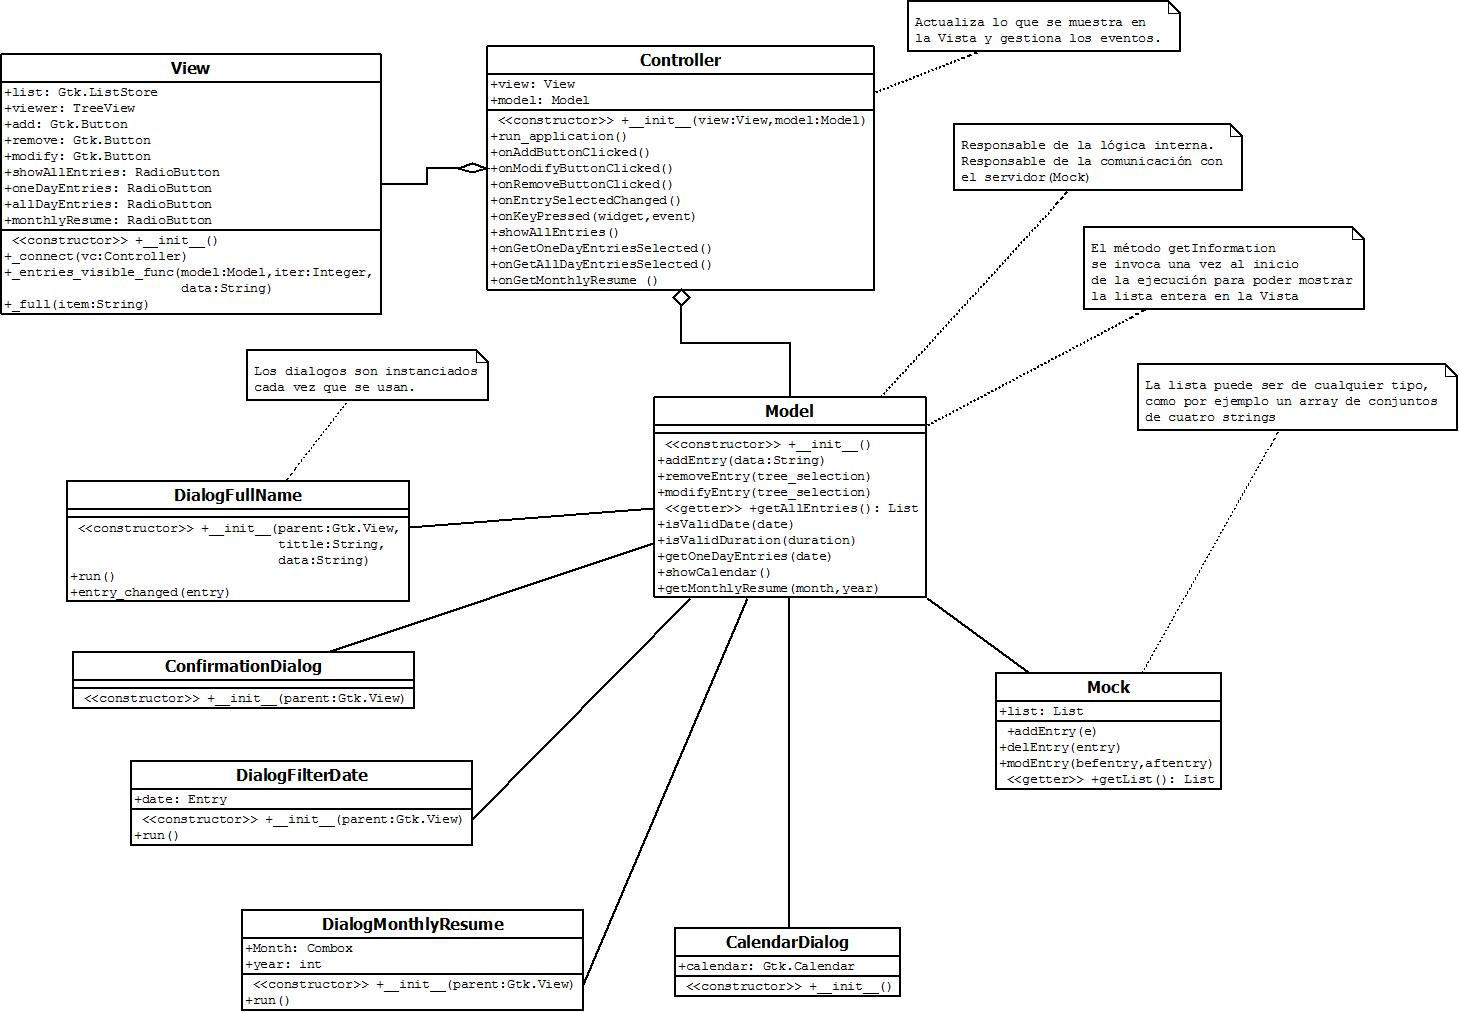
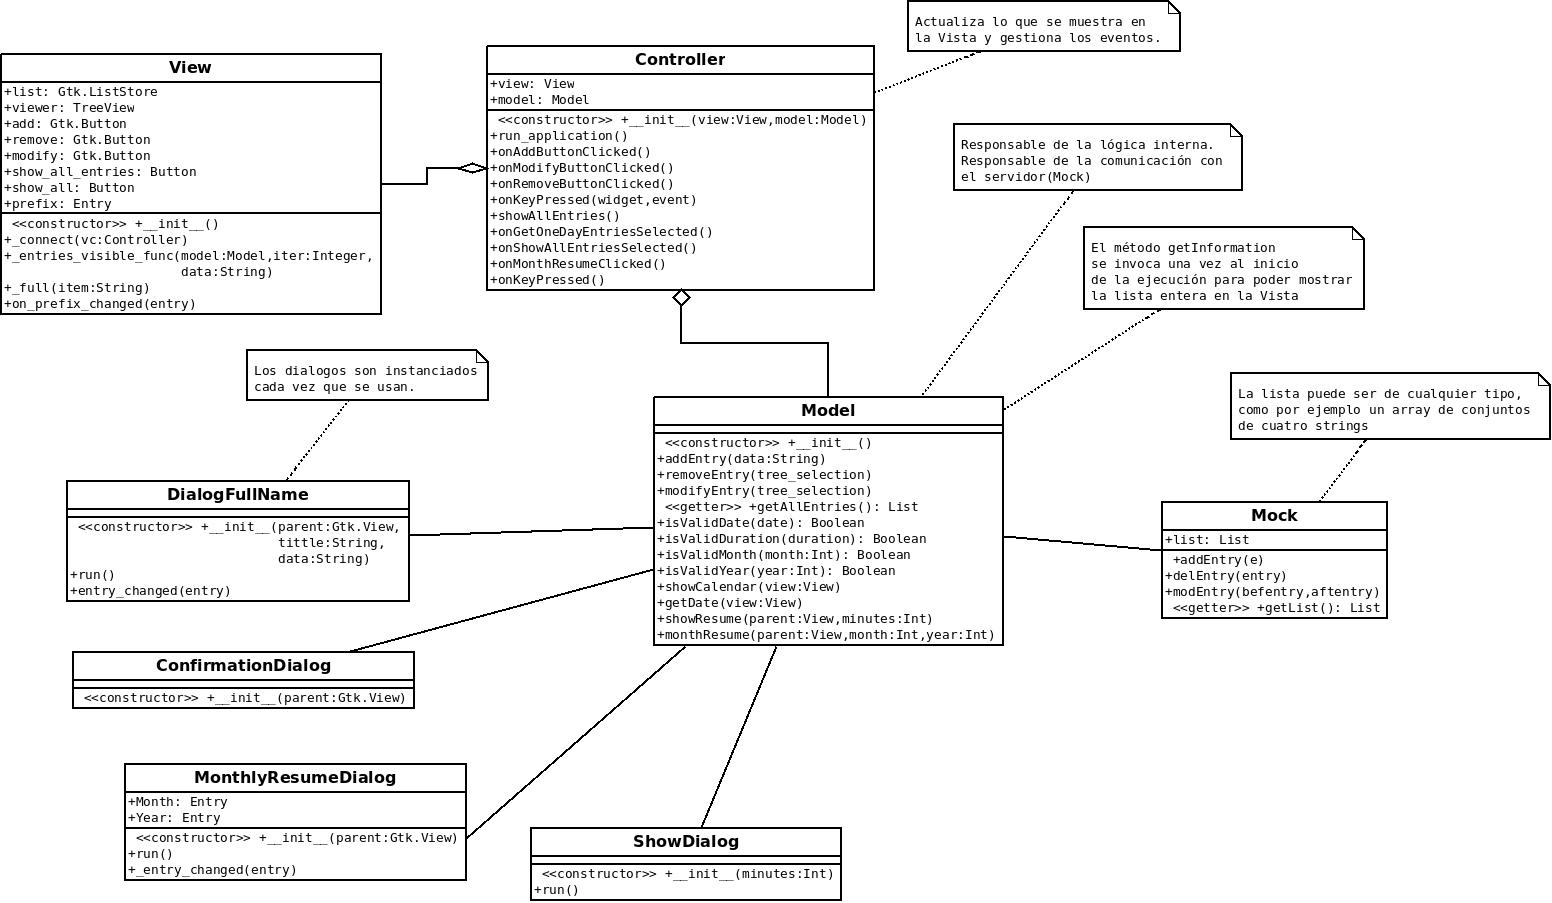
Retoques varios de diseño

diff --git a/src/View.py b/src/View.py
@@ -11,12 +11,10 @@ class View(Gtk.Window):
 		self.prefix = prefix
 		lbl_prefix = Gtk.Label(label="_Filtrar:", use_underline=True, mnemonic_widget=self.prefix)
 		prefix.get_accessible().add_relationship(Atk.RelationType.LABELLED_BY, lbl_prefix.get_accessible())
-
 		Gtk.Window.__init__(self,title="Fitness App")
 		self.set_default_size(680,680)
 		self.set_position(Gtk.WindowPosition.CENTER_ALWAYS)
 		self.set_icon_from_file('img/app_icon.ico')
-
 		self.viewer = Gtk.ListStore(str, str, int, str)
 		grid = Gtk.Grid(margin=18)
 		self.add(grid)
@@ -28,7 +26,6 @@ class View(Gtk.Window):
 		filter.set_visible_func(self._entries_visible_func)
 		self.filter = filter
 		self.filter_prefix = ""
-
 		self.entries = Gtk.TreeView(filter, headers_visible=True)
 
 		renderer0 = Gtk.CellRendererText()
@@ -50,14 +47,8 @@ class View(Gtk.Window):
 		self.entries.append_column(column3)
 
 		scrolled_window = Gtk.ScrolledWindow(expand=True)
-		#scrolled_window.set_size_request(200, 500)
 		scrolled_window.add(self.entries)
 
-		#En la siguiente version de la vista se implementa el filtrado
-
-		'''boxFilter = Gtk.Box(orientation=Gtk.Orientation.HORIZONTAL, spacing=10, margin=0)
-		boxFilter.pack_start(lbl_prefix, False, False, 0)
-		boxFilter.pack_start(self.prefix, False, False, 0)'''
 		bottomBox = Gtk.Box(orientation=Gtk.Orientation.HORIZONTAL, spacing=18, margin_top=18)
 		boxButtons = Gtk.Box(orientation=Gtk.Orientation.HORIZONTAL, spacing=6)
 		filterButtons = Gtk.Box(orientation=Gtk.Orientation.HORIZONTAL, spacing=6,margin_right=0) 
@@ -65,23 +56,8 @@ class View(Gtk.Window):
 		bottomBox.pack_start(boxButtons,False,False,0)
 		bottomBox.pack_start(filterButtons,False,False,0)
 
-		''' Agregar el resto de botones en la version extendida'''
-		#label_filter = Gtk.Label('Filter:')
 		self.show_all_entries = Gtk.Button("Show all")
 		self.month_resume  = Gtk.Button("Month resume")
-		#self.show_all_entries.set_active(True)
-		#self.show_calendar = Gtk.ToolButton()	
-		#self.show_calendar.set_icon_name("x-office-calendar")
-		#self.show_calendar = Gtk.Button('Show Calendar')
-		
-
-		''' Botones con iconos, a considerar
-		self.add = Gtk.ToolButton()
-		self.add.set_icon_name("list-add")
-		self.modify = Gtk.ToolButton()
-		self.modify.set_icon_name("accessories-text-editor")
-		self.remove = Gtk.ToolButton()
-		self.remove.set_icon_name("list-remove") '''
 		self.prefix.set_placeholder_text("DD/MM/YYYY")
 		boxButtons.pack_start(self.add, False, False, 0)
 		boxButtons.pack_start(self.modify, False, False, 0)
@@ -90,20 +66,10 @@ class View(Gtk.Window):
 		boxButtons.pack_start(self.show_all_entries,False,False,0)
 		boxButtons.pack_start(Gtk.Label("Filter by day: "), False, False, 0)
 		boxButtons.pack_start(self.prefix, False, False, 0)
-		#boxButtons.pack_start(self.show_calendar,False,False,0)
 
-		#filterBox = Gtk.Box(orientation=Gtk.Orientation.HORIZONTAL,spacing=12,margin=18)
-		#filterButtons.pack_start(label_filter,False,False,0)
-
-		#filterButtons.pack_start(self.show_all_entries,False,False,0)
-		#grid.attach(boxFilter, 0, 0, 1, 1)
 		grid.attach(scrolled_window, 0, 1, 1, 1)
 		grid.attach(bottomBox, 0, 2, 3, 1)
-
 		self.prefix.connect('changed', self.on_prefix_changed)
-		#self.add.set_sensitive(True)
-		#self.modify.set_sensitive(False)
-		#self.remove.set_sensitive(False)		
 
 	def _connect(self, vc):
 		self.connect("destroy",Gtk.main_quit)
@@ -114,7 +80,6 @@ class View(Gtk.Window):
 		#self.show_calendar.connect('clicked',vc.onShowCalendarClicked)
 		self.month_resume.connect('clicked',vc.onMonthResumeClicked)
 		self.show_all_entries.connect('clicked',vc.onShowAllEntriesSelected)
-		#self.entries.get_selection().connect("changed", vc.onEntrySelectedChanged)
 
 	def _entries_visible_func(self, model, iter, data):
 		if (self.filter_prefix == ""):

diff --git a/src/Controller.py b/src/Controller.py
@@ -36,8 +36,7 @@ class Controller:
 		if len(self.view.viewer) > 0:
 			selection = self.view.entries.get_selection()
 			self.model.removeEntry(self.view,selection)
-	def onEntrySelectedChanged(self, selection):
-		print("Cambiado")
+			
 	def onShowCalendarClicked(self,w):
 		self.model.showCalendar(self.view)
 		print("show calendar clicked")
@@ -51,7 +50,7 @@ class Controller:
 		if entry is None:
 			return
 		(month,year) = entry
-		self.model.MonthResume(self.view, month, year)
+		self.model.monthResume(self.view, month, year)
 		
 	def onShowAllEntriesSelected(self,w):
 		'''Borra todo y muestra todo lo que está en el modelo. 
@@ -62,10 +61,7 @@ class Controller:
 		for entry in entries:
 			self.view.viewer.append(entry)
 		print("show all entries selected")
-	def onFilterByDateSelected(self,w):
-		if self.view.filter_by_date.get_active():
-			print("filter by date selected")
-	#radio /
+
 	def onKeyPressed(self,widget,event):
 		if event.keyval == 65535:
 			self.onRemoveButtonClicked(widget)

diff --git a/src/Model.py b/src/Model.py
@@ -95,8 +95,8 @@ class Model:
 		calendario = calendar.CalendarDialog(view,self.mock.get_all())
 		a = calendario.run()
 
-	def getDate(self,w):
-		entry = MonthlyResumeDialog.MonthlyResumeDialog(w).run()
+	def getDate(self,view):
+		entry = MonthlyResumeDialog.MonthlyResumeDialog(view).run()
 		if entry is None:
 			return
 		return entry
@@ -104,7 +104,7 @@ class Model:
 	def showResume(self, parent, minutes):
 		ShowDialog.ShowDialog(parent, minutes).run()
 	
-	def MonthResume(self, parent, month, year):
+	def monthResume(self, parent, month, year):
 		entries = self.getAllEntries()
 		total_min = 0
 		for entry in entries: # detecta las actividades en el mes seleccionado
